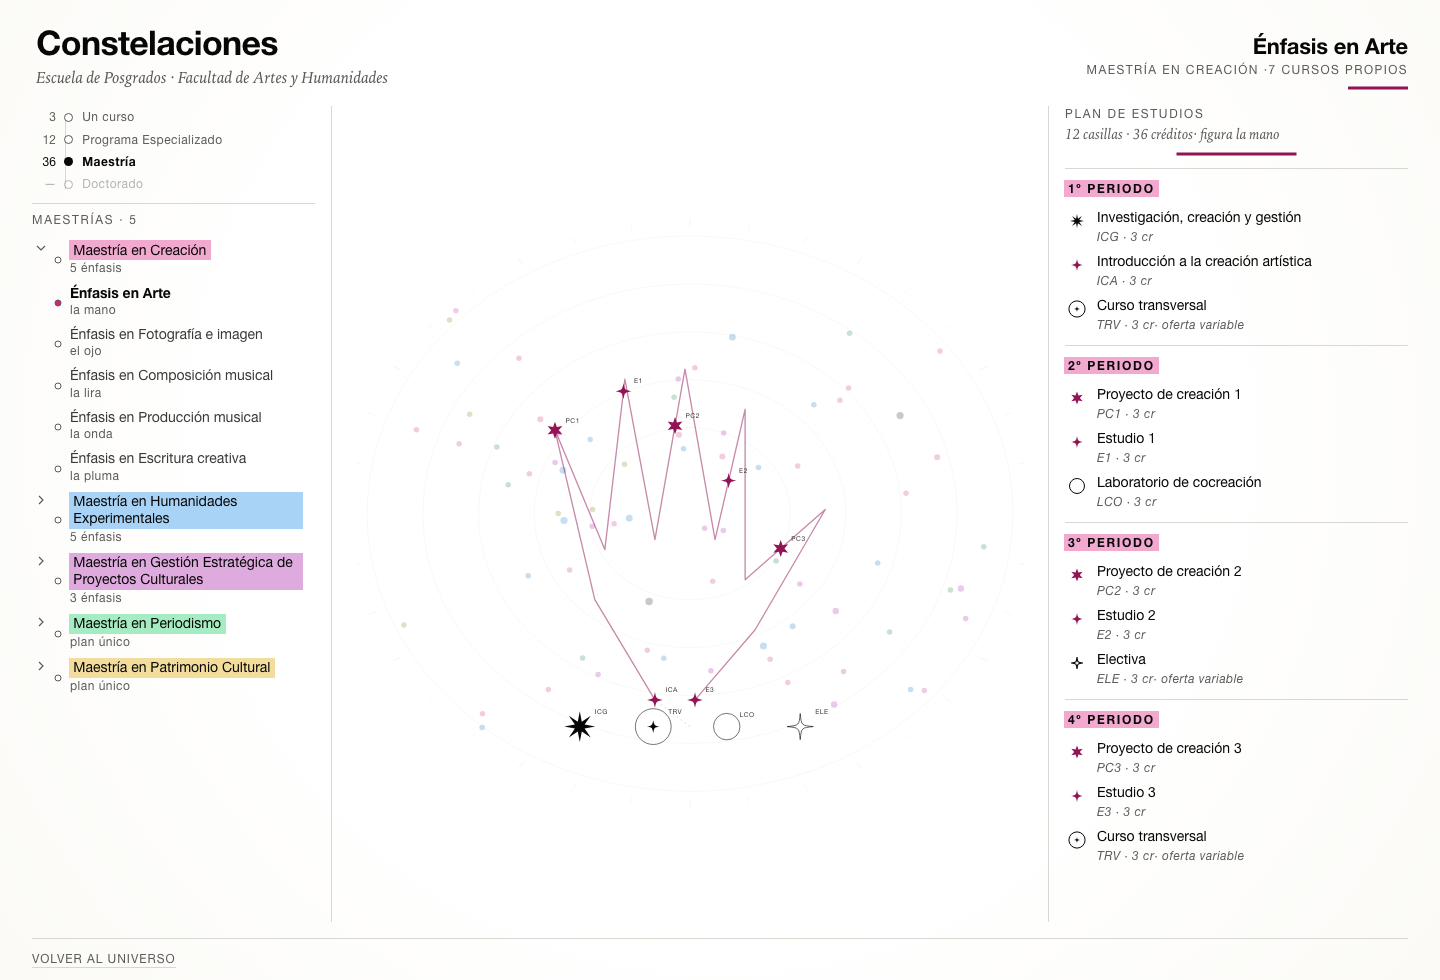
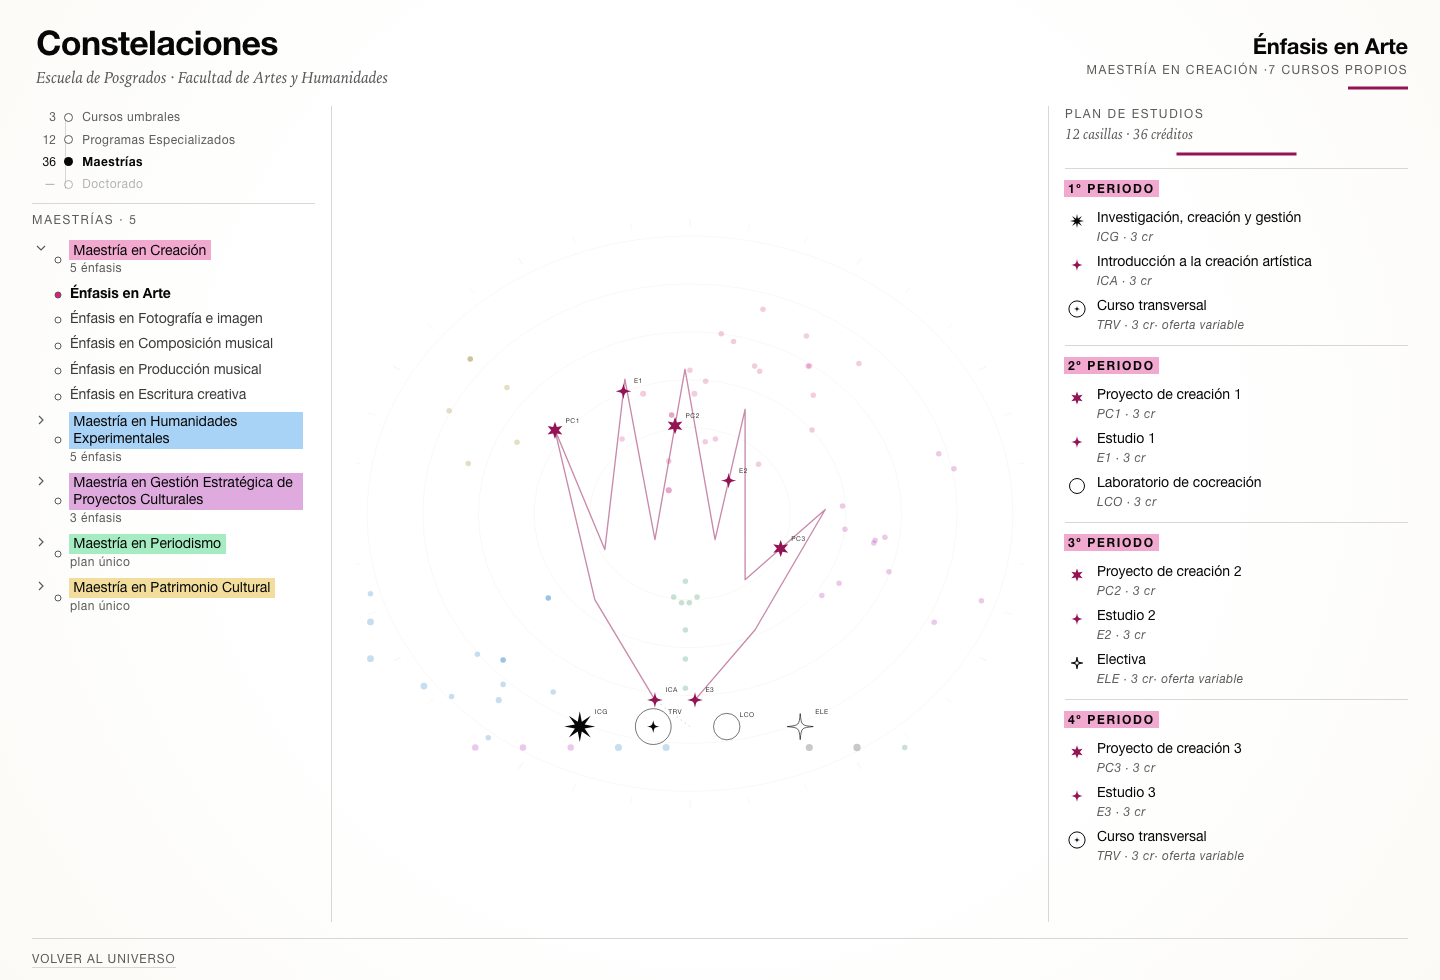
Paso 1: el universo lleva sus estrellas
- colocarEnFiguras: cada curso sobre el trazo de su plan, en su sitio canónico
- los cursos sin figura (tronco y plan común) van a una fila al pie
- la constelación conserva ese fondo en vez de saltar a posiciones olvidadas
- 40 pruebas; docs y capturas

Changed region(s): [[0.0312, 0.3061, 0.2188, 0.7041], [0.0938, 0.0918, 0.1562, 0.1531], [0.8438, 0.1224, 0.875, 0.1531]]

diff --git a/src/lib/domain/compose.ts b/src/lib/domain/compose.ts
@@ -112,6 +112,7 @@ export function compose(
     const siluetas = siluetasDelCielo(ancho, alto)
     if (nivel === 'especializado') return componerFragmentos(siluetas, estrellas, ancho, alto)
     if (nivel === 'curso') colocarUmbrales(siluetas, estrellas)
+    else colocarEnFiguras(siluetas, estrellas, ancho, alto)
     return {
       ancho,
       alto,
@@ -123,6 +124,10 @@ export function compose(
       limites: limitesDeMaestria(siluetas),
     }
   }
+
+  /* El fondo es el universo: cada curso en su figura. El programa elegido
+     despega desde ahí, no desde posiciones que ya no se ven. */
+  colocarEnFiguras(siluetasDelCielo(ancho, alto), estrellas, ancho, alto)
 
   const hijos = hijosDe(activo)
   return hijos.length >= 2
@@ -365,6 +370,54 @@ function componerFamilia(
     siluetas: [],
     limites: [],
   }
+}
+
+/**
+ * El universo: cada figura lleva sus estrellas. Los cursos propios se reparten
+ * sobre la silueta de su plan, en el mismo sitio que en la constelación; los del
+ * tronco, que son de todos, van a una fila al pie. Nadie queda en el aire.
+ */
+function colocarEnFiguras(
+  siluetas: Silueta[],
+  estrellas: Map<string, Estrella>,
+  ancho: number,
+  alto: number,
+): void {
+  const puestas = new Set<string>()
+
+  for (const s of siluetas) {
+    const propios = propiosOf(s.programaId).filter((id) => !puestas.has(id))
+    if (!propios.length) continue
+    const posiciones = placeOnFigure(s.puntos, propios.length)
+    propios.forEach((id, i) => {
+      const e = estrellas.get(id)
+      if (!e) return
+      e.x = posiciones[i][0]
+      e.y = posiciones[i][1]
+      e.en = [s.programaId]
+      puestas.add(id)
+    })
+  }
+
+  // el tronco —los que son de toda la Escuela— y algún suelto, en una fila al pie
+  const tronco = Object.values(curriculum.cursos).filter((c) => !puestas.has(c.id))
+  if (tronco.length) {
+    const puntos = fila(
+      tronco.map((c) => c.id),
+      ancho,
+      alto - 30,
+    )
+    tronco.forEach((c, i) => {
+      const e = estrellas.get(c.id)
+      if (!e) return
+      e.x = puntos[i][0]
+      e.y = puntos[i][1]
+      e.en = []
+      puestas.add(c.id)
+    })
+  }
+
+  for (const e of estrellas.values()) if (!puestas.has(e.cursoId)) e.estado = 'oculto'
 }
 
 /**

diff --git a/src/lib/domain/compose.test.ts b/src/lib/domain/compose.test.ts
@@ -180,3 +180,24 @@ describe('umbrales cerca de su figura', () => {
     }
   })
 })
+
+describe('el universo lleva sus estrellas', () => {
+  it('ningún curso queda en el aire: o está sobre una figura o en la fila del pie', () => {
+    const escena = compose([], ANCHO, ALTO)
+    const cajas = escena.siluetas.map((s) => {
+      const xs = s.puntos.map((p) => p[0])
+      const ys = s.puntos.map((p) => p[1])
+      return { x0: Math.min(...xs) - 8, x1: Math.max(...xs) + 8, y0: Math.min(...ys) - 8, y1: Math.max(...ys) + 8 }
+    })
+    for (const e of escena.estrellas) {
+      const enFigura = cajas.some((b) => e.x >= b.x0 && e.x <= b.x1 && e.y >= b.y0 && e.y <= b.y1)
+      expect(enFigura || e.y > ALTO - 60, `${e.cursoId} en ${e.x.toFixed(0)},${e.y.toFixed(0)}`).toBe(true)
+    }
+  })
+
+  it('la fila del pie reúne tronco y cursos que no tienen figura', () => {
+    const escena = compose([], ANCHO, ALTO)
+    const pie = escena.estrellas.filter((e) => e.y > ALTO - 60)
+    expect(pie.length).toBeGreaterThanOrEqual(6)
+  })
+})

diff --git a/docs/constellation.md b/docs/constellation.md
@@ -156,14 +156,21 @@ figura(p)       → posición canónica de los cursos de p  (puro)
 componer(A, B?) → posiciones finales + núcleo           (puro)
 ```
 
-### 4.1 La nebulosa
+### 4.1 El universo
 
-Sin selección, los 83 cursos forman un cielo **al azar**, no un diagrama:
+Sin selección, los 83 cursos **están sobre sus figuras**: cada plan lleva sus estrellas en el mismo
+sitio en que aparecen al abrirlo. Lo que se mueve al elegir un programa no es el mapa, es el zoom.
 
-- Posiciones sembradas, con una separación mínima de 17 px que solo evita que dos estrellas se
-  pisen. Hay huecos y parejas cercanas, como en un cielo de verdad.
-- **La posición no codifica nada.** Nada de cúmulos por maestría: agrupar por facultad convertía el
-  cielo en un diagrama de clusters, justo lo que la metáfora quiere evitar.
+Las quince figuras conservan su dispersión sembrada —se agrupan por maestría y se tocan—, pero ya no
+están huecas. Los cursos que no tienen figura propia —los seis de la Escuela y los del plan común de
+una maestría— van a una fila al pie, como el tronco en la constelación.
+
+
+
+- La dispersión de las figuras se siembra con separación mínima: hay huecos y parejas cercanas, como
+  en un cielo de verdad.
+- **La posición de una figura no codifica nada**, pero la de una estrella sí: va sobre el trazo de su
+  plan.
 - El color sigue distinguiendo la maestría, y una leyenda al pie lo explica. El color informa; la
   posición descansa.
 - Se calcula una vez en build (`atlas.json`) con semilla fija. En pantalla nadie simula: se lee.

diff --git a/docs/diary.md b/docs/diary.md
@@ -383,3 +383,17 @@ que siluetas y regiones. La regla queda escrita: un rótulo, una marca.
 **El fragmento no recoloca la figura.** Antes repartía cuatro estrellas entre cuatro posiciones; ahora
 cada curso se dibuja en el punto que le toca en el plan de su énfasis. La figura es la misma en las
 dos escalas; lo que cambia es cuántas estrellas están encendidas.
+
+---
+
+## 2026-10-30 · El universo deja de estar hueco
+
+**Cada figura lleva sus estrellas.** Las quince siluetas del universo estaban vacías: los cursos
+flotaban al azar en el campo. Ahora cada plan tiene sus cursos sobre el trazo, en la misma posición en
+que se ven al abrirlo. Cambiar de escala no mueve nada; cambia el zoom.
+
+**La fila del pie.** Los seis cursos de la Escuela —y los del plan común de una maestría— no tienen
+figura propia. Van a una fila al pie, igual que el tronco en la constelación.
+
+**El fondo de la constelación es el universo.** Al elegir un programa, el resto de las estrellas ya no
+salta a posiciones olvidadas: se queda donde estaba, atenuada.

diff --git a/docs/plan.md b/docs/plan.md
@@ -143,6 +143,8 @@ brazos; `prefers-reduced-motion` salta al estado final.
 - [x] En la maestría, cada figura abre su énfasis con un clic
 - [x] El fragmento usa la posición canónica del curso en su figura
 - [x] Rótulo de figura con la marca de familia, como siluetas y regiones
+- [x] **Paso 1 del mapa único**: el universo lleva sus estrellas; cada curso sobre el trazo de su plan
+- [x] La fila del pie reúne tronco y cursos sin figura
 - [x] El título vuelve al universo **y** a la escala de maestría
 - [x] Detalle de curso con la escalera «Cuenta para»
 - [x] 34 pruebas
